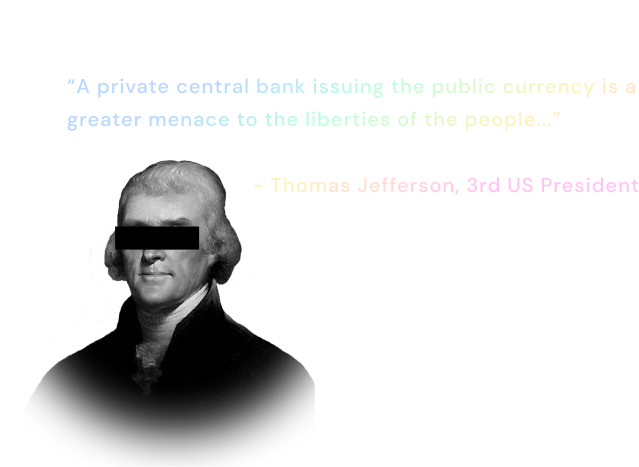
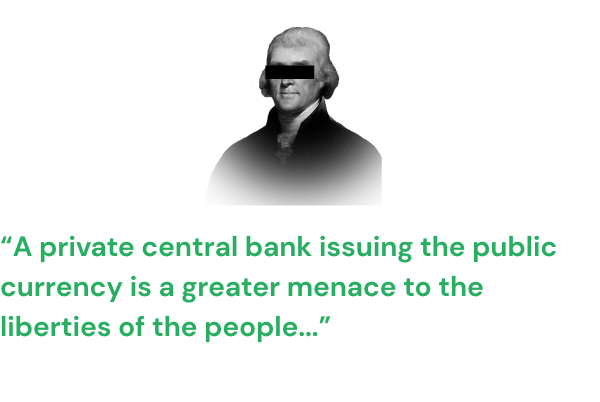
redesign: Friends + Radical

Changed region(s): [[0.0, 0.0597, 1.0, 0.9851]]

diff --git a/src/sections/Radical/index.tsx b/src/sections/Radical/index.tsx
@@ -5,12 +5,12 @@ import "./styles.scss";
 const Radical = () => (
     <div className="radical container">
         <div className="title">Radical decentralization</div>
+        <div className="radical__description">
+            At the heart of radical decentralization is the idea of full transparency. On the blockchain, all
+            transactions are already open but control is not.
+        </div>
         <div className="radical__content">
             <div className="radical__content__text">
-                At the heart of radical decentralization is the idea of full transparency. On the blockchain , all
-                transactions are already open but control is not.
-                <br />
-                <br />
                 StableUnitDAO gives the power back to the community. Decisions are made by the collective, rather than
                 by a centralized authority. This allows for a more inclusive and democratic approach, where millions can
                 have a say in the direction and management of the protocol.
@@ -23,7 +23,9 @@ const Radical = () => (
                 <br />
                 The more you contribute - the higher voting power you have.
             </div>
-            <img src="./img/radical.png" alt="Quote" />
+            <div className="radical__content__image">
+                <img src="./img/radical.png" alt="Quote" />
+            </div>
         </div>
     </div>
 );

diff --git a/src/sections/Radical/styles.scss b/src/sections/Radical/styles.scss
@@ -1,22 +1,35 @@
 @import "../../styles/vars";
 
 .radical {
+  &__description {
+    font-weight: 400;
+    font-size: 20px;
+    line-height: 28px;
+    max-width: 640px;
+    margin: 0 auto;
+    text-align: center;
+    padding-bottom: 64px;
+  }
+
   &__content {
     display: flex;
     justify-content: space-between;
     align-items: flex-start;
 
     &__text {
-      font-weight: 500;
+      padding-top: 34px;
+      flex: 1;
+      font-weight: 400;
       font-size: 18px;
-      line-height: 33px;
-      color: $gray-white;
+      line-height: 24px;
       padding-right: 45px;
+      text-align: left;
     }
 
-    img {
-      margin-top: -70px;
-      width: 50%;
+    &__img {
+      flex: 1;
+      display: flex;
+      align-items: center;
     }
   }
 }

diff --git a/src/sections/Friends/index.tsx b/src/sections/Friends/index.tsx
@@ -7,7 +7,6 @@ const Friends = () => (
     <div className="friends">
         <div className="title container">Protocol friends</div>
         <Scroller>
-            <div className="friends__text">Let’s become friends</div>
             <img className="friends__image" src="./img/friends/ambire.png" alt="Ambire" />
             <img className="friends__image" src="./img/friends/doki-doki.png" alt="Doki Doki" />
             <img className="friends__image" src="./img/friends/aura-finance.png" alt="Aura Finance" />

diff --git a/src/sections/BuiltBy/styles.scss b/src/sections/BuiltBy/styles.scss
@@ -1,7 +1,7 @@
 @import "../../styles/vars";
 
 .built-by {
-  margin-bottom: 150px;
+  margin-bottom: 120px;
 
   &__description {
     font-weight: 400;

diff --git a/src/sections/Friends/styles.scss b/src/sections/Friends/styles.scss
@@ -13,6 +13,6 @@
   }
 
   &__image {
-    margin-left: 40px;
+    padding-right: 40px;
   }
 }
